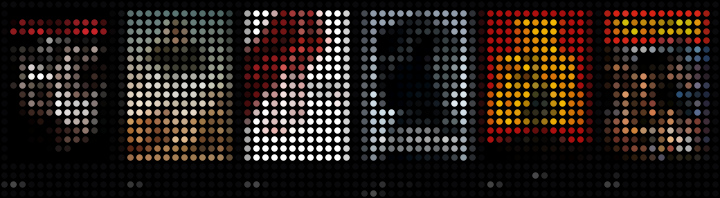
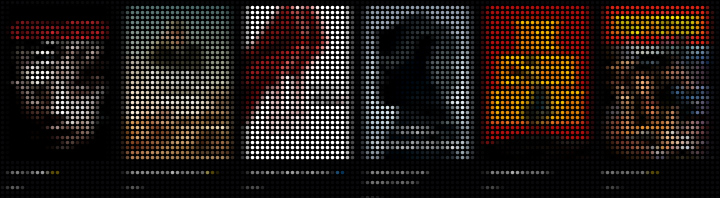
Illustration

diff --git a/app/globals.css b/app/globals.css
@@ -498,21 +498,18 @@ img {
 }
 .offline-art {
   position: relative;
-  width: 310px;
+  width: 380px;
   max-width: 100%;
   margin: 38px auto 5px;
   padding: 0 22px 0 0;
 }
 .offline-preview {
-  padding: 10px;
-  background: var(--surface-raised);
-  border: 1px solid #ffffff1c;
   border-radius: 17px;
-  box-shadow: 0 20px 45px #0005;
 }
 .offline-preview img {
   width: 100%;
   border-radius: 10px;
+  mix-blend-mode: lighten;
 }
 .offline-status {
   display: flex;
@@ -1421,30 +1418,37 @@ img {
   margin: auto auto 44px;
 }
 .format-art {
-  display: flex;
-  align-items: center;
-  justify-content: center;
-  gap: 12px;
+  display: grid;
+  place-items: center;
+  height: 300px;
   min-height: 280px;
   flex: 1;
-  margin-bottom: 32px;
+  width: calc(100% + 80px);
+  margin: 0 -40px 32px;
+  overflow: hidden;
+  mask-image: radial-gradient(ellipse at center, #000 35%, transparent 75%);
 }
-.format-art span {
+.format-grid {
+  display: grid;
+  grid-template-columns: repeat(6, 92px);
+  gap: 12px;
+}
+.format-tile {
   display: flex;
-  align-items: end;
-  width: 94px;
-  height: 120px;
-  border: 1px solid #5594ff40;
-  border-radius: 12px;
-  padding: 14px 12px;
-  color: var(--brand);
-  background: linear-gradient(150deg, #ffffff0c, #ffffff02);
-  font-size: 25px;
-  letter-spacing: -1px;
-  box-shadow: 0 12px 32px #0002;
+  flex-direction: column;
+  align-items: center;
+  justify-content: center;
+  gap: 10px;
+  height: 76px;
+  border: 1px solid #ffffff18;
+  border-radius: 14px;
+  background: linear-gradient(145deg, #ffffff08, #ffffff02);
+  color: #c7c7cc;
 }
-.format-art span:nth-child(2) {
-  translate: 0 -16px;
+.format-tile span {
+  color: var(--text);
+  font-size: 12px;
+  font-weight: 500;
 }
 .player-section {
   margin-top: 120px;
@@ -1786,6 +1790,10 @@ img {
   .feature-pair > article {
     padding: 28px;
   }
+  .format-art {
+    width: calc(100% + 56px);
+    margin-inline: -28px;
+  }
   .questions-section {
     gap: 40px;
     padding: 36px;
@@ -1855,6 +1863,10 @@ img {
   .feature-pair > article {
     min-height: 425px;
     padding: 32px;
+  }
+  .format-art {
+    width: calc(100% + 64px);
+    margin-inline: -32px;
   }
   .player-section {
     margin-top: 72px;
@@ -1983,14 +1995,18 @@ img {
     font-size: 24px;
   }
   .format-art {
-    gap: 10px;
-    min-height: 200px;
+    height: 260px;
+    min-height: 260px;
+    flex: none;
+    width: calc(100% + 48px);
+    margin-inline: -24px;
   }
-  .format-art span {
-    width: clamp(60px, 18vw, 78px);
-    height: 108px;
-    padding-inline: 8px;
-    font-size: 22px;
+  .format-grid {
+    grid-template-columns: repeat(6, 76px);
+    gap: 10px;
+  }
+  .format-tile {
+    height: 68px;
   }
   .player-features article {
     min-height: 0;

diff --git a/app/illustrations.tsx b/app/illustrations.tsx
@@ -1,10 +1,4 @@
-import {
-  ArrowRight,
-  Check,
-  Folder,
-  HardDriveDownload,
-  Volume2,
-} from "lucide-react";
+import { ArrowRight, Check, FileVideo, Folder, Volume2 } from "lucide-react";
 import Image from "next/image";
 
 export function TrackIllustration({ kind }: { kind: "subtitles" | "audio" }) {
@@ -80,11 +74,11 @@ export function DownloadIllustration() {
     <div className="offline-art" aria-hidden="true">
       <div className="offline-preview">
         <Image
-          src="/images/theatre-continue.webp"
+          src="/images/theatre-download.jpg"
           alt=""
-          width={395}
-          height={235}
-          sizes="280px"
+          width={720}
+          height={406}
+          sizes="(max-width: 540px) 80vw, 380px"
         />
         <span className="offline-status">
           <Check size={14} />
@@ -92,8 +86,55 @@ export function DownloadIllustration() {
         </span>
       </div>
       <span className="offline-download">
-        <HardDriveDownload size={30} strokeWidth={1.5} />
+        <Image
+          src="/images/download-dotted.svg"
+          alt=""
+          width={38}
+          height={38}
+        />
       </span>
+    </div>
+  );
+}
+
+const videoFormats = [
+  "MKV",
+  "MP4",
+  "MOV",
+  "AVI",
+  "WEBM",
+  "M4V",
+  "MPEG",
+  "MPG",
+  "TS",
+  "M2TS",
+  "MTS",
+  "VOB",
+  "WMV",
+  "ASF",
+  "FLV",
+  "OGV",
+  "3GP",
+  "3G2",
+  "M2V",
+  "DIVX",
+  "MXF",
+  "F4V",
+  "OGG",
+  "RM",
+];
+
+export function FormatsIllustration() {
+  return (
+    <div className="format-art" aria-hidden="true">
+      <div className="format-grid">
+        {videoFormats.map((format) => (
+          <div className="format-tile" key={format}>
+            <FileVideo size={24} strokeWidth={1.3} />
+            <span>.{format.toLowerCase()}</span>
+          </div>
+        ))}
+      </div>
     </div>
   );
 }

diff --git a/app/page.tsx b/app/page.tsx
@@ -20,6 +20,7 @@ import {
 import { AppPreview, DownloadButton, Footer, Header } from "./components";
 import {
   DownloadIllustration,
+  FormatsIllustration,
   SetupIllustration,
   TrackIllustration,
 } from "./illustrations";
@@ -207,11 +208,7 @@ export default function Home() {
               <DownloadIllustration />
             </article>
             <article className="feature-panel formats-feature">
-              <div className="format-art" aria-hidden="true">
-                <span>.mkv</span>
-                <span>.mp4</span>
-                <span>.mov</span>
-              </div>
+              <FormatsIllustration />
               <div>
                 <h2>Play more formats.</h2>
                 <p>
